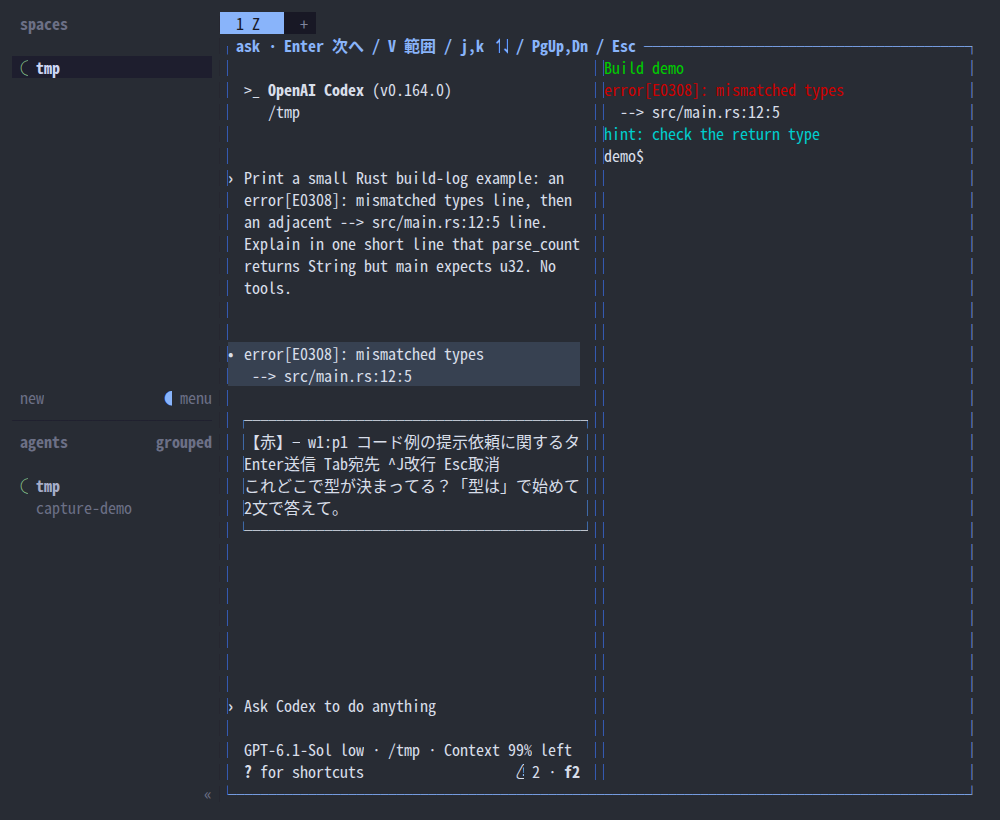
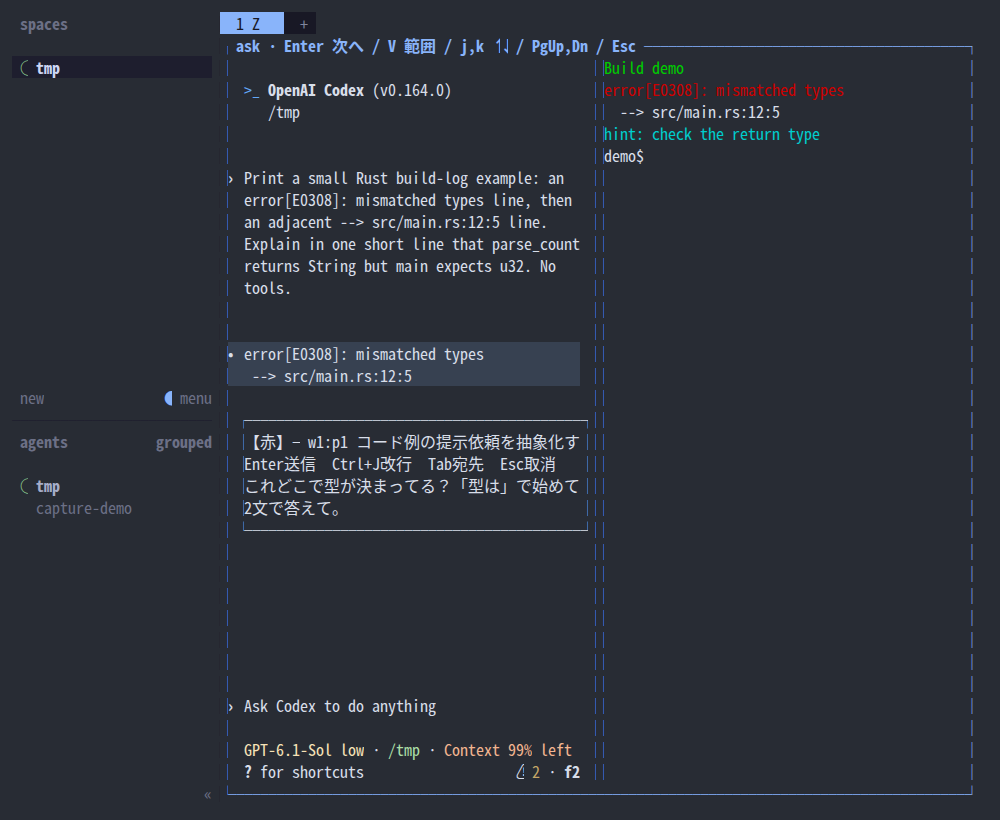
Show the input cursor after the note so terminal IMEs compose in place
Hiding the cursor outside the popup made macOS IME preedit appear at the
wrong position. Also spell out Ctrl+J instead of ^J in the hint.

diff --git a/tests/test_ask_frozen.py b/tests/test_ask_frozen.py
@@ -185,6 +185,16 @@ class Frozen(unittest.TestCase):
                 text = frozen.plain(row.split('H', 1)[1])
                 self.assertLessEqual(sum(frozen.cell_width(c) for c in text), 12)
 
+    def test_popup_shows_cursor_after_note_for_ime(self):
+        rendered = frozen.popup_render((2, 3, 20, 6), ['heading', 'help', 'あいう'])
+        # Note is content row 3 -> screen row 3 + 3 + 1; after border and 6 cells.
+        self.assertTrue(rendered.endswith('\x1b[7;10H\x1b[?25h'))
+
+    def test_popup_cursor_follows_wrapped_tail(self):
+        rendered = frozen.popup_render((0, 0, 8, 6), ['heading', 'help', 'あいうえお'])
+        # Width 6 inside: 'あいう' then 'えお' on the next row.
+        self.assertTrue(rendered.endswith('\x1b[5;6H\x1b[?25h'))
+
 
 if __name__ == '__main__':
     unittest.main(verbosity=2)

diff --git a/frozen.py b/frozen.py
@@ -262,7 +262,11 @@ def popup_render(rect, rows):
             used = sum(cell_width(c) for c in plain(clipped))
             line = '│' + clipped + ' ' * (width - 2 - used) + '│'
         output.append(f'\x1b[{y + index + 1};{x + 1}H' + RESET + line)
-    return ''.join(output) + '\x1b[?25l'
+    # Park a visible cursor after the note: terminal IMEs draw preedit text there.
+    row = min(len(content), height - 2)
+    used = sum(cell_width(c) for c in plain(crop(content[row - 1].expandtabs(4), width - 2))) if row else 0
+    column = x + 1 + min(used, width - 3)
+    return ''.join(output) + f'\x1b[{y + row + 1};{column + 1}H\x1b[?25h'
 
 
 def read_key(fd):

diff --git a/ask.py b/ask.py
@@ -212,7 +212,7 @@ def compose(host, store, screen, red, selection=None):
             raise AskError('入力欄の場所がありません。画面を戻して選び直してください')
         destination = target['pane_id'] + ' ' + title(target) if target else 'なし — 記録だけ残します'
         rows = [notice or '【赤】→ ' + destination,
-                'Enter送信 Tab宛先 ^J改行 Esc取消']
+                'Enter送信  Ctrl+J改行  Tab宛先  Esc取消']
         rows += note.split('\n')
         # curses handles UTF-8 input; ANSI output keeps the original SGR colors.
         screen.refresh()
